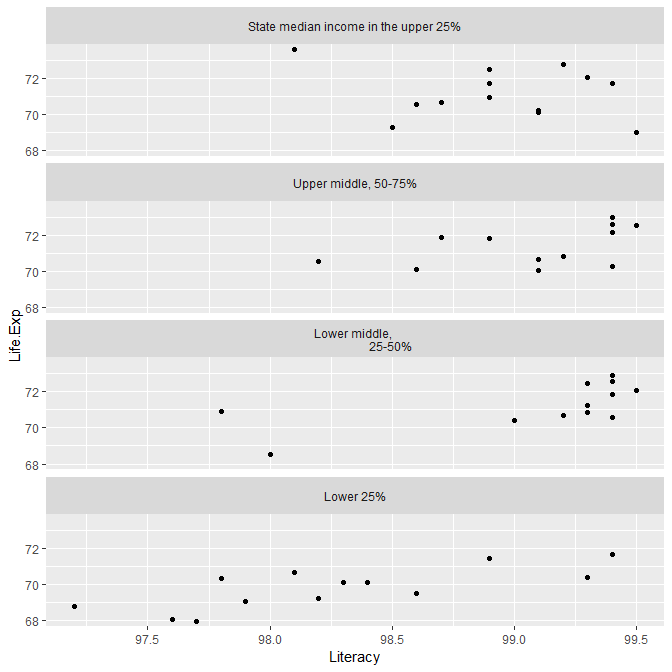
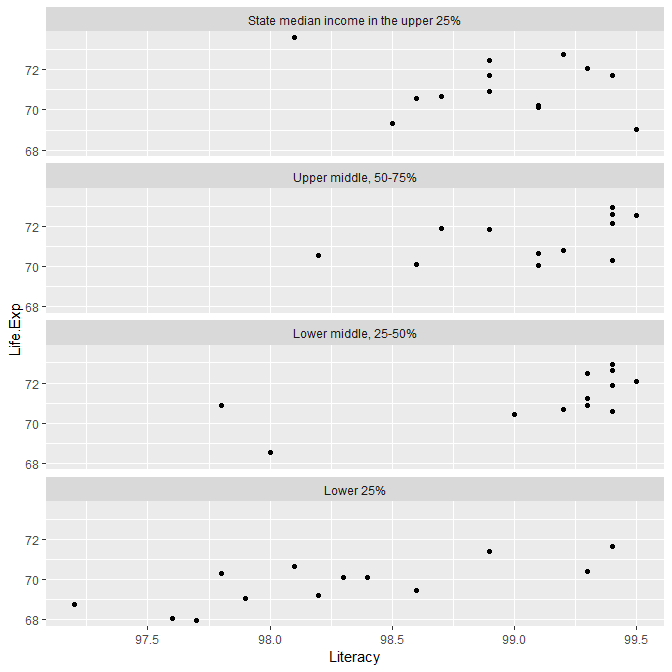
typo

diff --git a/cm/cm111-data-misc-carpentry.md b/cm/cm111-data-misc-carpentry.md
@@ -292,8 +292,7 @@ all data frames must have the same number of rows.
 This approach can be error-prone: it depends on the rows of both data
 frames being in the same order so that the rows match by position.
 
-Instead, I suggest you use joins with coordinatized
-data.
+Instead, I suggest you use joins with coordinatized data.
 
 <!-- ## rbind()  -->
 
@@ -546,8 +545,7 @@ df <- df %>%
                 include.lowest = TRUE, 
                 breaks = quantile(Income, probs = c(0, 0.25, 0.5, 0.75, 1)), 
                 labels = c("Lower 25%", 
-                        "Lower middle, 
-                        25-50%", 
+                        "Lower middle, 25-50%", 
                         "Upper middle, 50-75%", 
                         "State median income in the upper 25%")
                 )) %>% 
